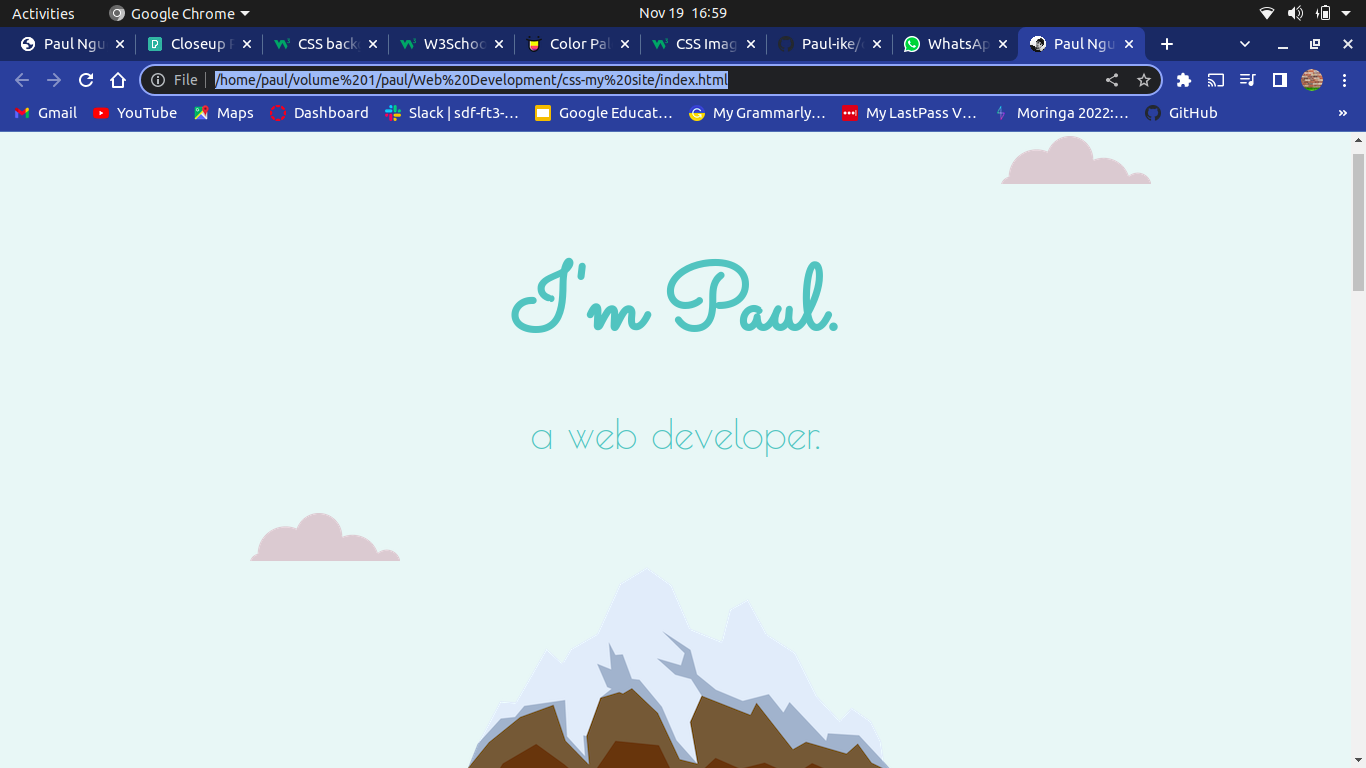
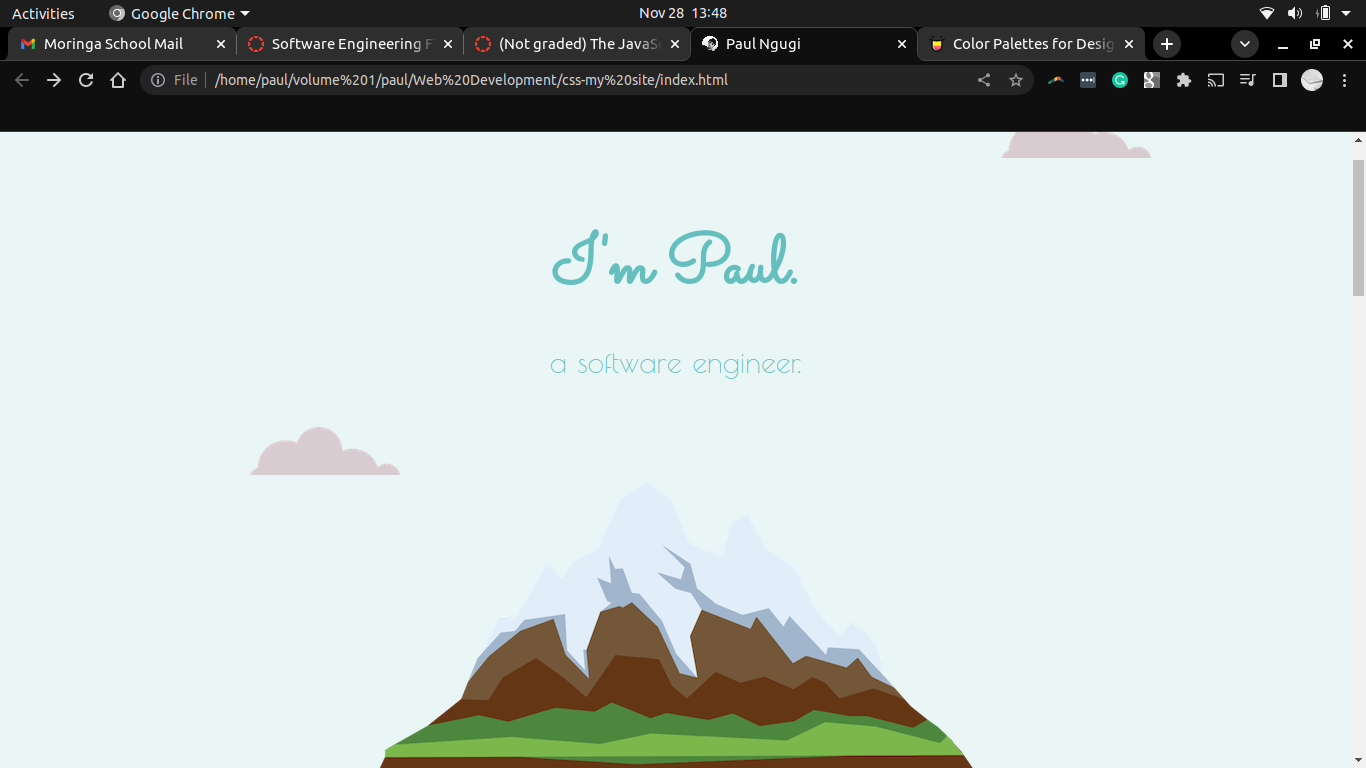
first commit

diff --git a/index.html b/index.html
@@ -10,13 +10,15 @@
     <link href="https://fonts.googleapis.com/css2?family=Poiret+One&display=swap" rel="stylesheet">
     <link href="https://fonts.googleapis.com/css2?family=Nunito:wght@300&display=swap" rel="stylesheet">
     <link href="https://fonts.googleapis.com/css2?family=Dosis:wght@200&display=swap" rel="stylesheet">
+    <link rel="stylesheet" href="https://cdnjs.cloudflare.com/ajax/libs/font-awesome/6.2.0/css/all.min.css" integrity="sha512-xh6O/CkQoPOWDdYTDqeRdPCVd1SpvCA9XXcUnZS2FmJNp1coAFzvtCN9BmamE+4aHK8yyUHUSCcJHgXloTyT2A==" crossorigin="anonymous" referrerpolicy="no-referrer" />
+
 </head>
 
 <body>
     <div class="top-container">
         <img class="cloud1" src="images/cloud.png" alt="cloud.png">
         <h1>I'm Paul.</h1>
-        <h2 class="web">a web developer.</h2>
+        <h2 class="web">a software engineer.</h2>
         <img class="cloud2" src="images/cloud.png" alt="cloud.png">
         <img class="mt" src="images/mountain.png" alt="mountain.png">
     </div>
@@ -24,7 +26,7 @@
         <div class="profile">
             <img class="paul" src="images/paul-modified.png" alt="paul-img">
             <h2>Hello.</h2>
-            <p class="intro">I am a Web Developer based in Nairobi, Kenya. I have a passion in web design and ❤ to code a lot.</p>
+            <p class="intro">I am a Software Engineer based in Nairobi, Kenya. I have a passion in software development and ❤ to code a lot.</p>
         </div>
         <hr>
         <div class="skills">
@@ -32,13 +34,19 @@
             <div class="skill-row">
                 <img class="webdev" src="https://cdn-icons-png.flaticon.com/512/8055/8055523.png" alt="webdev-img">
                 <h3>Web Design and Development.</h3>
-                <p>I'm a developer, so I know how to create your website to run across devices using the latest technologies available. </p>
+                <p>A product designer that specializes in UI design and software development. I know how to create websites to run across devices using the latest technologies available. </p>
             </div>
             <div class="skill-row">
                 <img class="compscientist" src="https://cdn-icons-png.flaticon.com/128/1055/1055621.png" alt="compscie-img">
                 <h3>Computer Science.</h3>
-                <p>I like to keep it simple. My goals are to focus on typography, content and conveying the message that you want to send.</p>
+                <p>I like to keep it simple. I enjoy the challenge of solving complex customer problems and planning the user experience from the ground up, from research and discovery all the way through to visual designs.</p>
             </div>
+            <i class="fa-brands fa-html5 fa-3x"></i>
+            <i class="fa-brands fa-css3-alt fa-3x"></i>
+            <i class="fa-brands fa-square-js fa-3x"></i>
+            <i class="fa-brands fa-react fa-3x"></i>
+            <i class="fa-brands fa-wix fa-3x"></i>
+            <i class="fa-brands fa-bootstrap fa-3x"></i>
         </div>
         <hr>
         <div class="contact-me">
@@ -46,17 +54,17 @@
             <img class="call" src="https://cdn-icons-png.flaticon.com/512/8368/8368604.png" alt="call-img">
             <h3>I'm currently available for freelance work.</h3>
             <p class="outer">If you have a project that you want to get started,  think you need my help with something or just fancy saying hey, then get in touch.</p>
-            <a class="BUTTON_RYI" href="mailto:paulnyoiken@email.com">CONTACT ME</a>
+            <a class="BUTTON_RYI" href="tel:+254718741382">CONTACT ME</a>
         </div>
     </div>
 
 
     <div class="bottom-container">
         <!--<img class="LinkedIn" src="https://cdn-icons-png.flaticon.com/128/3128/3128329.png" alt="linkedin-img">-->
-        <a class="footer-link" href="https://www.linkedin.com/">LinkedIn</a>
+        <a class="footer-link" href="https://www.linkedin.com/in/paul-ngugi-829973257/">LinkedIn</a>
         <!--<img class="twitter" src="https://cdn-icons-png.flaticon.com/128/3128/3128310.png" alt="twitter-img">-->
-        <a class="footer-link" href="https://twitter.com/love_peace_unty">Twitter</a>
-        <a class="footer-link" href="https://paul-ike.github.io/paul-cv/s">Website</a>
+        <a class="footer-link" href="https://wa.me/+254718741382">Whatsapp</a>
+        <a class="footer-link" href="mailto:paul.ngugi@student.moringaschool.com">Email</a>
         <p class="c">© 2022 Paul Ngugi.</p>
     </div>
 

diff --git a/css/styles.css b/css/styles.css
@@ -98,7 +98,10 @@ hr {
     float: right;
     margin-left: 30px;
 }
-
+i{
+    padding: 3%;
+    color: #DBA39A;
+}
 .call{
     height: 150px;
     width: 150px;
@@ -117,17 +120,18 @@ hr {
     color: #11999E;
 }
 a {
-    color: #11999E;
+    color: #FFEBAD;
     margin: 10px 20px;
     font-family: 'Dosis', sans-serif;
     text-decoration: none;
+    font-size: 1.5rem;
 }
 a:hover{
-    color: #EAF6F6;
+    color: #3D5656;
 }
 .c{
     color: #EAF6F6;
-    font-size: 0.75rem;
+    font-size: 1rem;
     padding: 20px 0;
 }
 

diff --git a/README.md b/README.md
@@ -1,6 +1,7 @@
 ### Portfolio (old)
 #### Topics
     - Intro
+    - About Me
     - My Skills
     - Get In Touch
 
